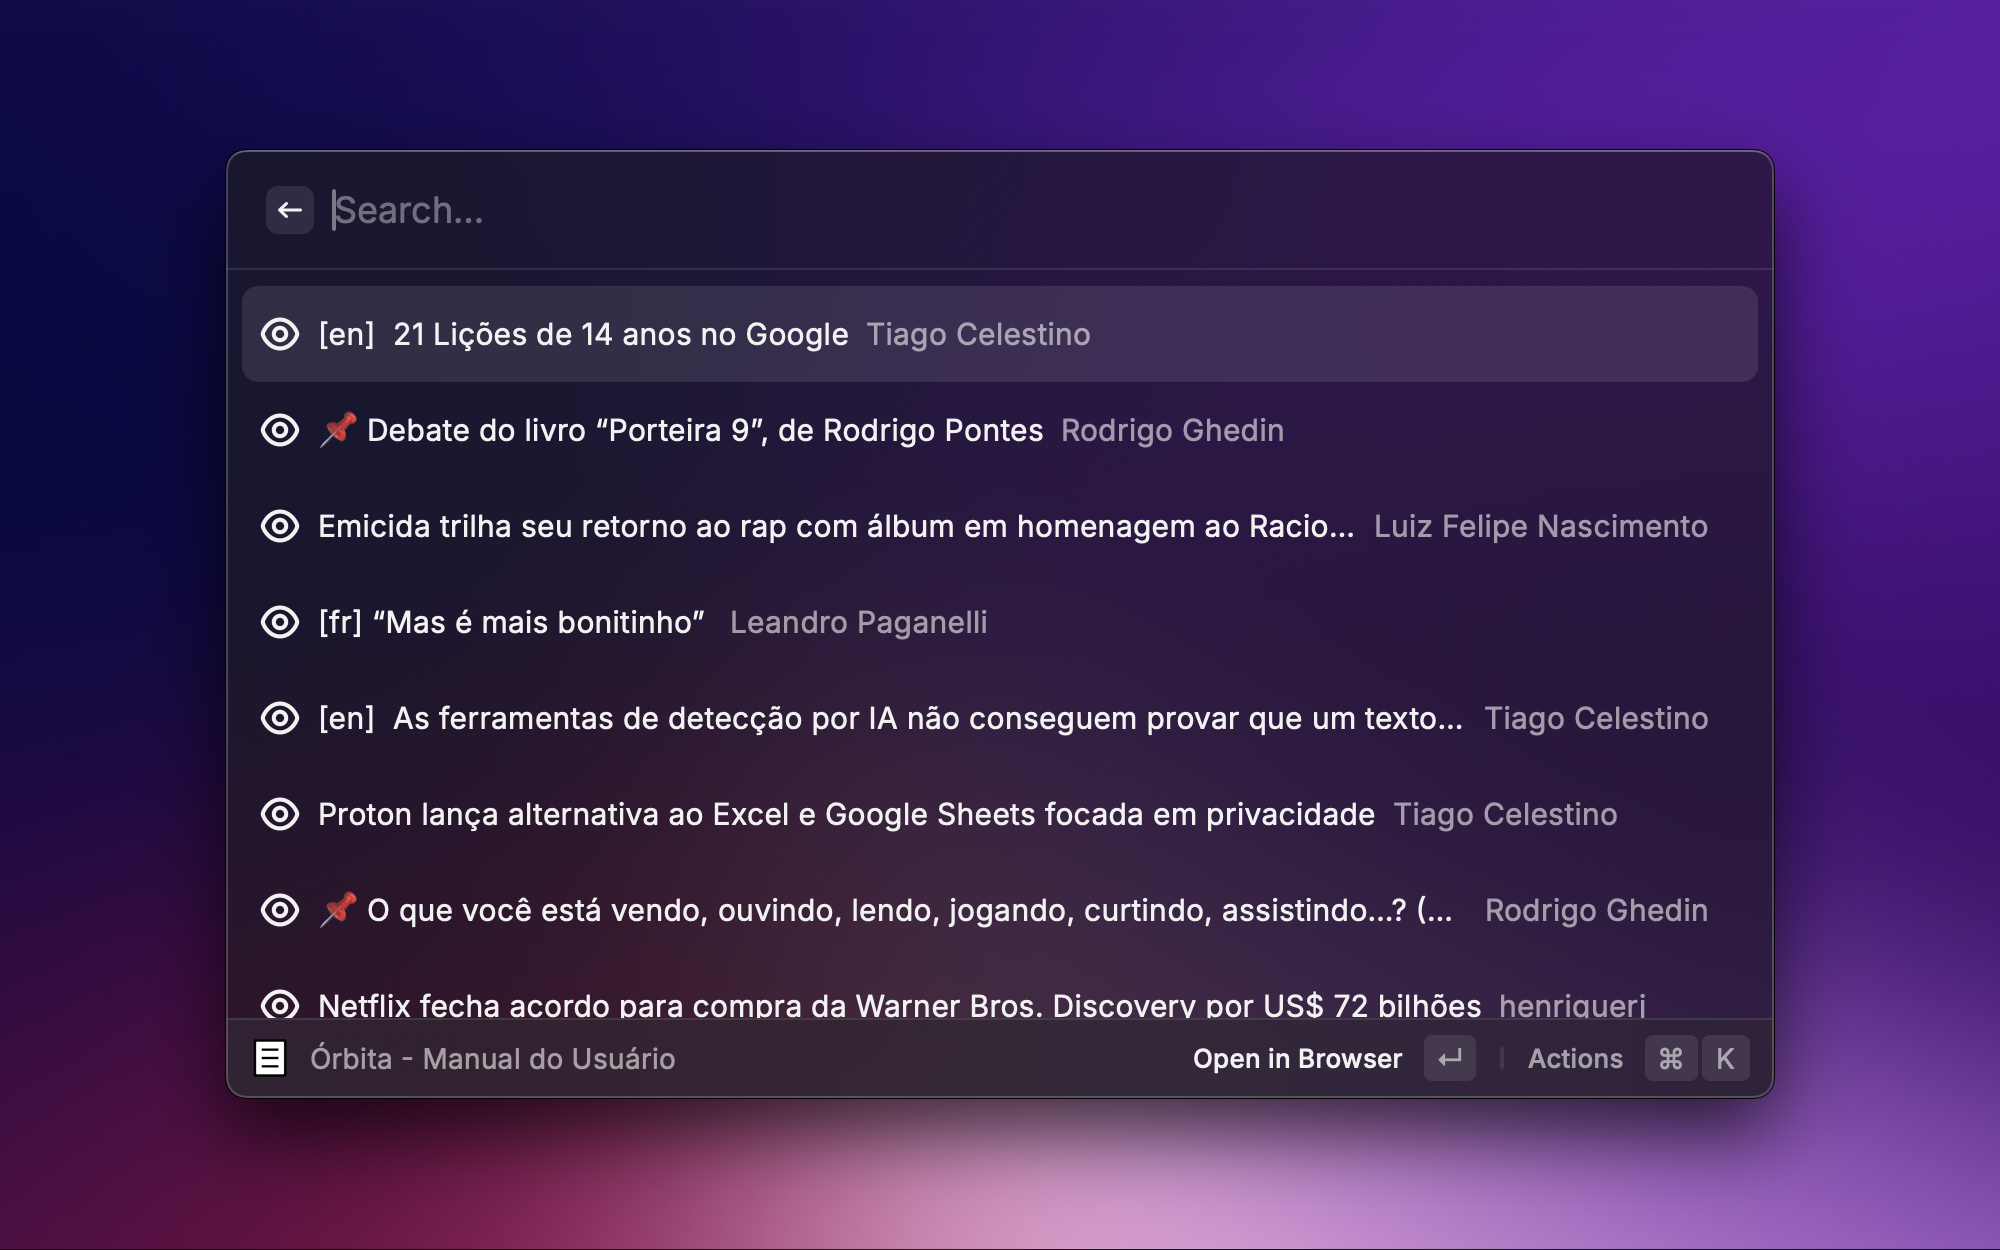
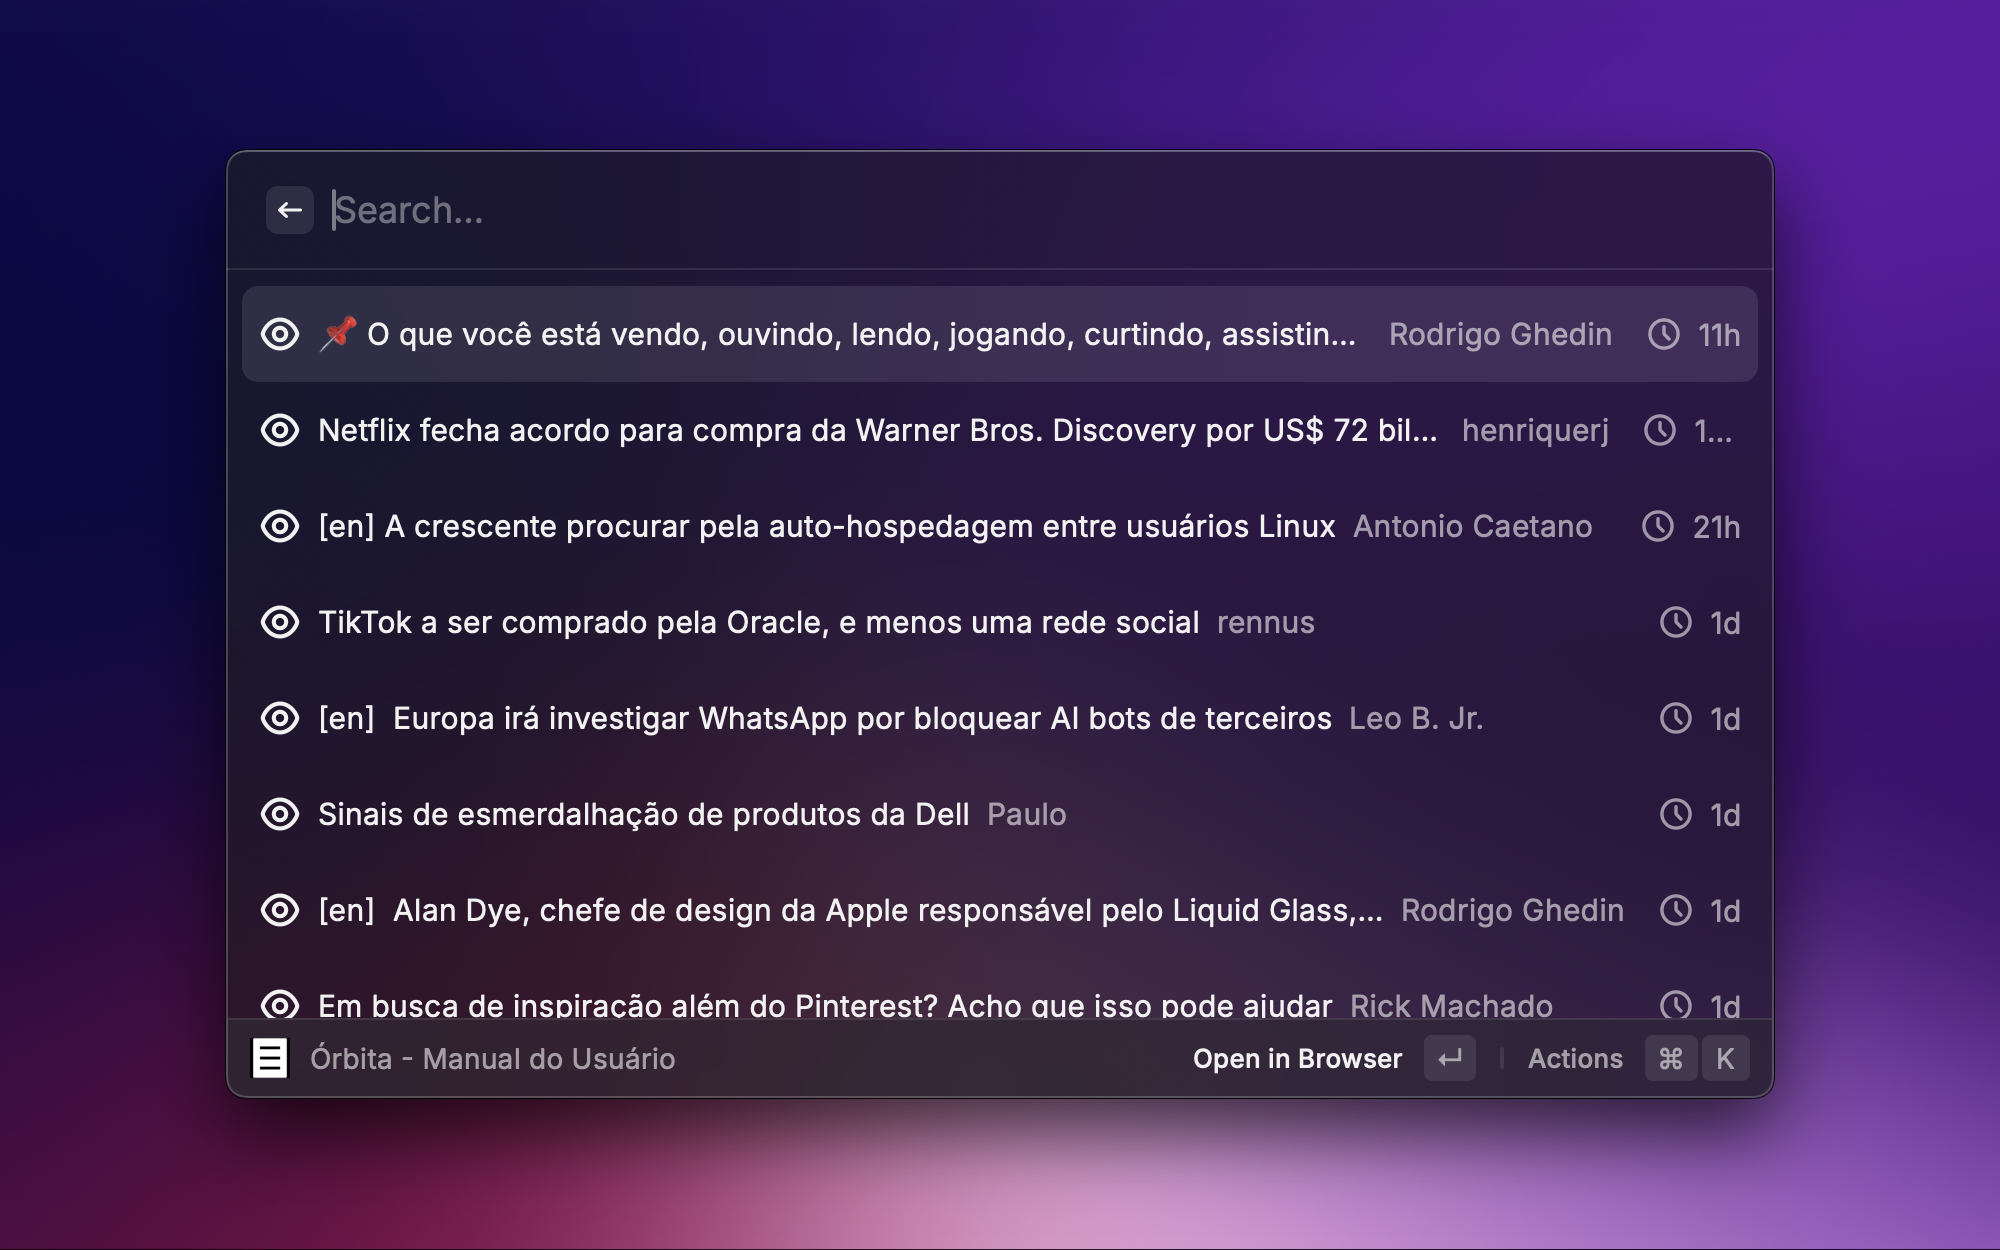
Update orbita extension
- chore: update screenshot
- refactor: show publish date formmated
- feat: format date using time go lib
- chore: add lib to date manipulation

diff --git a/extensions/orbita/src/orbita.tsx b/extensions/orbita/src/orbita.tsx
@@ -1,6 +1,7 @@
 import { Action, ActionPanel, Icon, List } from "@raycast/api";
 import { useCachedPromise } from "@raycast/utils";
 import { fetchOrbitaPosts } from "./get-rss";
+import { formatRelativeDate } from "./utils";
 
 export default function Command() {
   const { isLoading, data, error, revalidate } = useCachedPromise(async () => await fetchOrbitaPosts(), []);
@@ -31,6 +32,12 @@ export default function Command() {
             icon={Icon.Eye}
             title={post.title}
             subtitle={post.author || ""}
+            accessories={[
+              {
+                text: formatRelativeDate(post.pubDate),
+                icon: Icon.Clock,
+              },
+            ]}
             actions={
               <ActionPanel>
                 <Action.OpenInBrowser url={post.link} />

diff --git a/extensions/orbita/src/utils.ts b/extensions/orbita/src/utils.ts
@@ -1,0 +1,10 @@
+import TimeAgo from "javascript-time-ago";
+import en from "javascript-time-ago/locale/en.json";
+
+TimeAgo.addDefaultLocale(en);
+const timeAgo = new TimeAgo("en-US");
+
+export function formatRelativeDate(inputDate: string): string {
+  const date = new Date(inputDate);
+  return timeAgo.format(date, "mini");
+}
